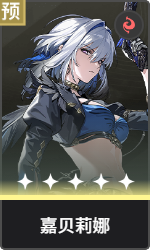
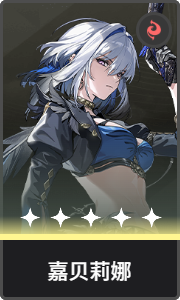
2.8:千咲数据

diff --git a/js/base.js b/js/base.js
@@ -1,4 +1,4 @@
-const toolVersion = "2.7.32";
+const toolVersion = "2.8.33";
 const roleList = [
     {
         "id": 1,
@@ -615,6 +615,20 @@ const roleList = [
         "liberate": 0,
         "other": 0.44,
         "maxscore": 499.3
+    },
+    {   //千咲
+        "id": 45,
+        "gid": 1508,
+        "name": "千咲",
+        "star": 5,
+        "rule": 2,
+        "cls": "mcr-qianxiao",
+        "normal": 0.075,
+        "skill": 0.042,
+        "heavy": 0.0,
+        "liberate": 0.75,
+        "other": 0.133,
+        "maxscore": 510.3
     }
 ];
 const costList = [
@@ -750,6 +764,9 @@ const costList = [
     {"id": 130, "name": "梦魇·绿熔蜥", "type": "Cost3", "imgCode": "https://prod-alicdn-community.kurobbs.com/forum/528df4b8b188400ea044fec240e3227c20250930.png"},
     {"id": 131, "name": "梦魇·刺玫菇（稚形）", "type": "Cost1", "imgCode": "https://prod-alicdn-community.kurobbs.com/forum/ffe1e1ecde324e978866641042dfaaa220250930.png"},
     {"id": 132, "name": "梦魇·绿熔蜥（稚形）", "type": "Cost1", "imgCode": "https://prod-alicdn-community.kurobbs.com/forum/528df4b8b188400ea044fec240e3227c20250930.png"},
+    {"id": 133, "name": "梦魇·呜咔咔", "type": "Cost1", "imgCode": "https://prod-alicdn-community.kurobbs.com/forum/11457d754cc748a4bb3dfc890c7c05c820251114.png"},
+    {"id": 134, "name": "梦魇·刺玫菇", "type": "Cost3", "imgCode": "https://prod-alicdn-community.kurobbs.com/forum/07870ba6ae1c48aea18e91864dfa29a220251114.png"},
+    {"id": 135, "name": "梦魇·侏侏鸵", "type": "Cost1", "imgCode": "https://prod-alicdn-community.kurobbs.com/forum/65469080f05442c5ba72bb5cb1399c4020251114.png"},
 ];
 const ruleList = [
     {
@@ -4578,6 +4595,136 @@ const RoleSumProperty = [
                 "efficiency01": 0.5,
                 "efficiency02": 0,
                 "unike": 1,
+                "treat": 0
+            },
+        ]
+    },
+    {
+        "id": 45,
+        "propertyList": [
+            {"name": "暴击", "property": "52.5%"},
+            {"name": "暴伤", "property": "105%"},
+            {"name": "大攻击", "property": "58%"},
+            {"name": "小攻击", "property": "120"},
+            {"name": "共鸣效率", "property": "37.2%"},
+            {"name": "普攻伤害", "property": "0%"},
+            {"name": "技能伤害", "property": "0%"},
+            {"name": "重击伤害", "property": "0%"},
+            {"name": "解放伤害", "property": "58%"},
+            {"name": "大生命", "property": "0%"},
+            {"name": "小生命", "property": "0"},
+            {"name": "大防御", "property": "0%"},
+            {"name": "小防御", "property": "0"}
+        ],
+        "mzProperty": [
+            {"normal": 0.075, "skill": 0.042, "heavy": 0.0, "liberate": 0.75, "other": 0.023, "maxscore": 501.7},
+            {"normal": 0.075, "skill": 0.042, "heavy": 0.0, "liberate": 0.75, "other": 0.023, "maxscore": 501.7},
+            {"normal": 0.067, "skill": 0.037, "heavy": 0.0, "liberate": 0.776, "other": 0.02, "maxscore": 503.2},
+            {"normal": 0.067, "skill": 0.037, "heavy": 0.0, "liberate": 0.776, "other": 0.02, "maxscore": 503.2},
+            {"normal": 0.067, "skill": 0.037, "heavy": 0.0, "liberate": 0.776, "other": 0.02, "maxscore": 501.7},
+            {"normal": 0.067, "skill": 0.037, "heavy": 0.0, "liberate": 0.776, "other": 0.02, "maxscore": 501.7},
+        ],
+        "mzRule": [
+            {
+                "ruleId": 1,
+                "attack01": 0.94,
+                "attack02": 0.094,
+                "crit": 1.8,
+                "critDamage": 0.9,
+                "property": 1,
+                "health01": 0,
+                "health02": 0,
+                "defense01": 0,
+                "defense02": 0,
+                "defenseLimit": 40,
+                "efficiency01": 1,
+                "efficiency02": 0,
+                "unike": 1,
+                "treat": 0
+            },
+            {
+                "ruleId": 2,
+                "attack01": 0.94,
+                "attack02": 0.094,
+                "crit": 1.8,
+                "critDamage": 0.9,
+                "property": 1,
+                "health01": 0,
+                "health02": 0,
+                "defense01": 0,
+                "defense02": 0,
+                "defenseLimit": 40,
+                "efficiency01": 1,
+                "efficiency02": 0,
+                "unike": 1,
+                "treat": 0
+            },
+            {
+                "ruleId": 3,
+                "attack01": 0.94,
+                "attack02": 0.094,
+                "crit": 1.8,
+                "critDamage": 0.9,
+                "property": 1,
+                "health01": 0,
+                "health02": 0,
+                "defense01": 0,
+                "defense02": 0,
+                "defenseLimit": 40,
+                "efficiency01": 1,
+                "efficiency02": 0,
+                "unike": 1,
+                "treat": 0
+            },
+            {
+                "ruleId": 4,
+                "attack01": 0.94,
+                "attack02": 0.094,
+                "crit": 1.8,
+                "critDamage": 0.9,
+                "property": 1,
+                "health01": 0,
+                "health02": 0,
+                "defense01": 0,
+                "defense02": 0,
+                "defenseLimit": 40,
+                "efficiency01": 1,
+                "efficiency02": 0,
+                "unike": 1,
+                "treat": 0
+            },
+            {
+                "ruleId": 5,
+                "attack01": 0.94,
+                "attack02": 0.094,
+                "crit": 1.8,
+                "critDamage": 0.9,
+                "property": 1,
+                "health01": 0,
+                "health02": 0,
+                "defense01": 0,
+                "defense02": 0,
+                "defenseLimit": 40,
+                "efficiency01": 1,
+                "efficiency02": 0,
+                "unike": 0.97,
+                "treat": 0
+            },
+            {
+                "ruleId": 6,
+                "attack01": 0.94,
+                "attack02": 0.094,
+                "crit": 1.8,
+                "critDamage": 0.9,
+                "property": 1,
+                "health01": 0,
+                "health02": 0,
+                "defense01": 0,
+                "defense02": 0,
+                "defenseLimit": 40,
+                "efficiency01": 1,
+                "efficiency02": 0,
+                "unike": 0.97,
                 "treat": 0
             },
         ]

diff --git a/rule.html b/rule.html
@@ -474,6 +474,15 @@
                 <td>0%</td>
                 <td>44%</td>
             </tr>
+            <tr>
+                <th scope="row">40</th>
+                <td>千咲</td>
+                <td>7%</td>
+                <td>0%</td>
+                <td>75%</td>
+                <td>4%</td>
+                <td>13%</td>
+            </tr>
             </tbody>
         </table>
         如何带入表1进行计算，举例今汐某1C声骸出了个11.6%共鸣技能增伤，查表2得今汐的共技能加成系数为0.72，那么该项积点为11.6*1.15*0.72=9.6。<br><br>
@@ -895,6 +904,12 @@
                 <th scope="row">41</th>
                 <td>仇远</td>
                 <td>499.3</td>
+                <td>43311</td>
+            </tr>
+            <tr>
+                <th scope="row">42</th>
+                <td>千咲</td>
+                <td>510.3</td>
                 <td>43311</td>
             </tr>
             </tbody>

diff --git a/costedit.html b/costedit.html
@@ -227,6 +227,7 @@
                                 <option value="荣斗套">荣斗·盾套</option>
                                 <option value="息界套">息界套</option>
                                 <option value="焚羽套">焚羽·火套</option>
+                                <option value="命理套">命理·暗套</option>
                             </select>
                         </span></li>
                         <li class="list-group-item"><span class="mc-select-title">选择声骸属性：</span><span

diff --git a/js/helperFunctions.js b/js/helperFunctions.js
@@ -121,6 +121,9 @@ var renderCostList = function renderCostList(list) {
                     case "焚羽套":
                         sxz = 21;
                         break;
+                    case "命理套":
+                        sxz = 22;
+                        break;
                 }
                 ress += `<img class="mc-suite-attr2" src="image/attribute/` + sxz + `.png" alt="套装属性">`;
             }

diff --git a/js/mccost.js b/js/mccost.js
@@ -396,6 +396,9 @@ function randerCostList(list) {
                     case "焚羽套":
                         sxz = 21;
                         break;
+                    case "命理套":
+                        sxz = 22;
+                        break;
                 }
                 ress += `<img class="mc-suite-attr2" src="image/attribute/` + sxz + `.png" alt="套装属性">`;
             }

diff --git a/js/compare.js b/js/compare.js
@@ -597,6 +597,9 @@ function renderUnusedCostList(filterType = "all") {
                 case "焚羽套":
                     sxz = 21;
                     break;
+                case "命理套":
+                    sxz = 22;
+                    break;
             }
             ress += `<img class="mc-suite-attr2" src="image/attribute/` + sxz + `.png" alt="套装属性">`;
         }

diff --git a/js/costedit.js b/js/costedit.js
@@ -471,6 +471,9 @@ function randerMainAttri() {
                 case "焚羽套":
                     sxz = 21;
                     break;
+                case "命理套":
+                    sxz = 22;
+                    break;
             }
             $("#shimg02").attr("src", "image/attribute/" + sxz + ".png");
         }

diff --git a/css/base.css b/css/base.css
@@ -531,6 +531,10 @@ body {
     background-image: url("../image/characters/qiuyuan.png");
     background-size: 100% auto;
 }
+.mcr-qianxiao {
+    background-image: url("../image/characters/qianxiao.png");
+    background-size: 100% auto;
+}
 
 .mc-box-evaluate {
     position: relative;
